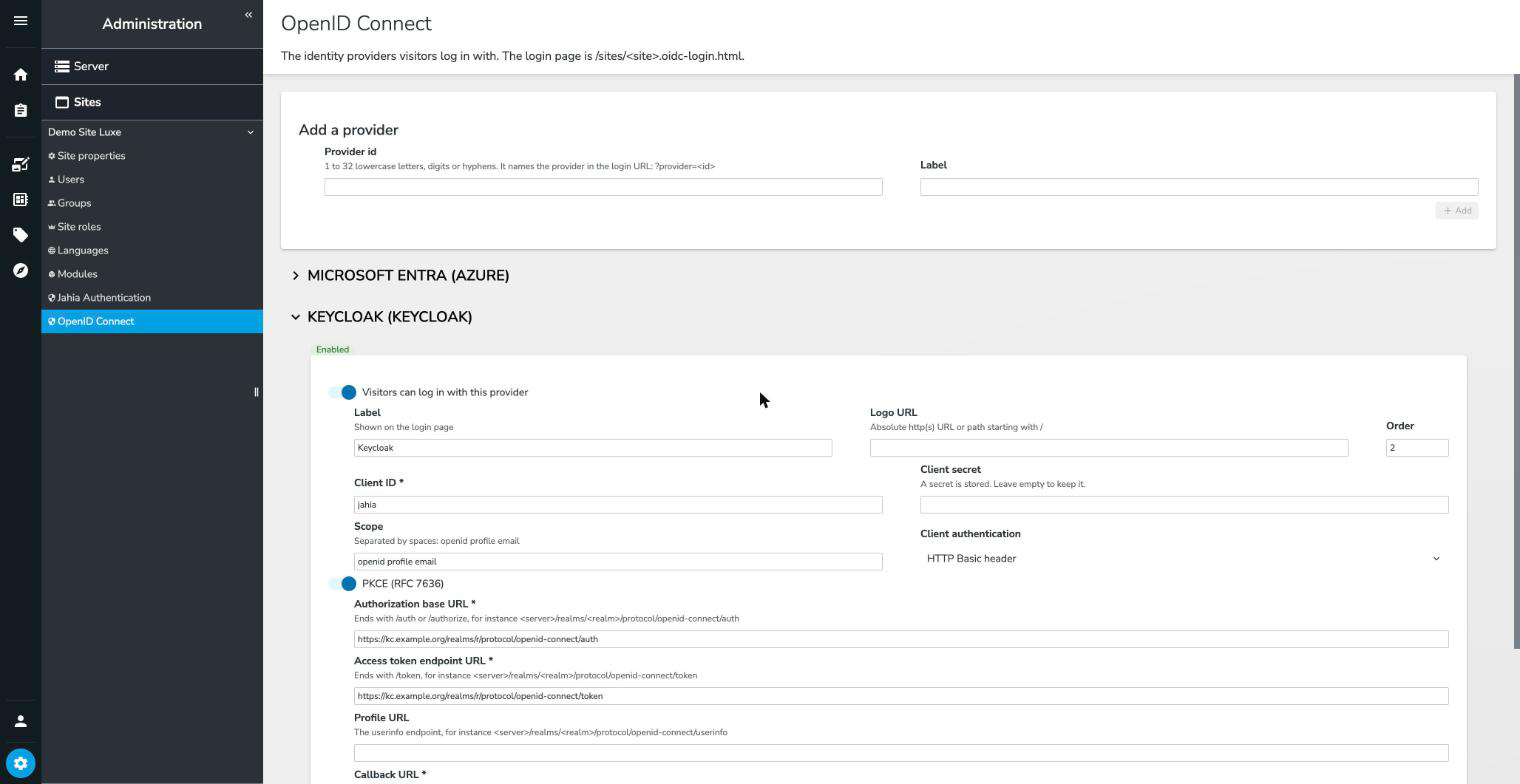
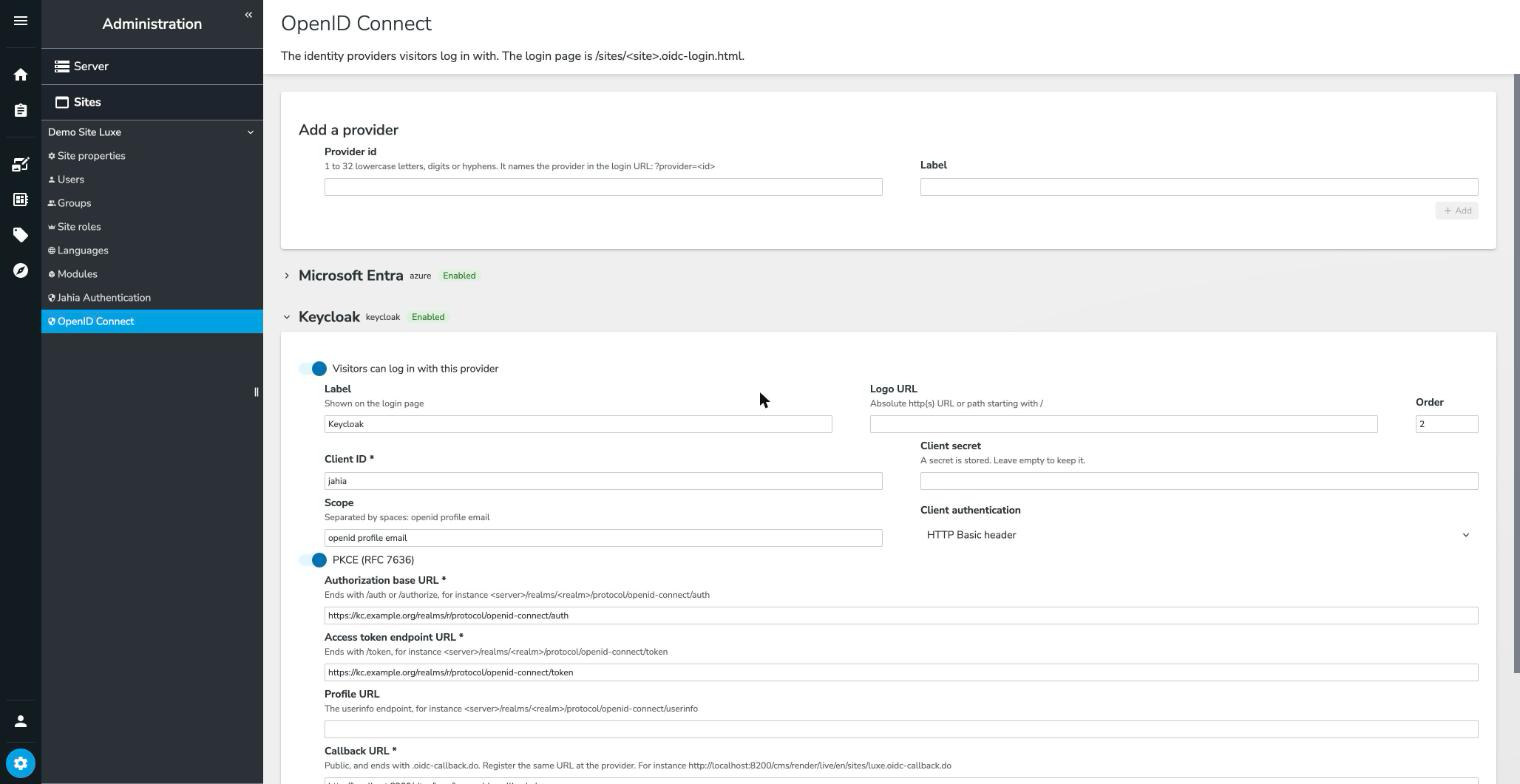
fix(admin): show the status of a provider next to its name
The Enabled chip sat inside the expanded content, above the switch that
says the same, so the status of a collapsed provider was hidden. Each
provider now has its own header, with its label, id and status, because
Moonstone's Collapsible takes a text label only. The settings stay
mounted while collapsed, so unsaved changes survive.

diff --git a/src/javascript/OidcProviders/OidcProvidersAdmin.jsx b/src/javascript/OidcProviders/OidcProvidersAdmin.jsx
@@ -2,7 +2,7 @@ import React, {useState} from 'react';
 import {useQuery} from '@apollo/client';
 import {useSelector} from 'react-redux';
 import {useTranslation} from 'react-i18next';
-import {Chip, Collapsible, Header, LayoutContent, Typography} from '@jahia/moonstone';
+import {ChevronDown, ChevronRight, Chip, Header, LayoutContent, Typography} from '@jahia/moonstone';
 import {GET_PROVIDERS} from './OidcProviders.gql';
 import {NewProviderForm} from './NewProviderForm';
 import {ProviderForm} from './ProviderForm';
@@ -34,23 +34,34 @@ export const OidcProvidersAdmin = () => {
                                      onCreated={onCreated}/>
                     {error && <Typography className={styles.error}>{error.message}</Typography>}
                     {data && providers.length === 0 && <Typography>{t('label.none')}</Typography>}
-                    {providers.map(provider => (
-                        <div key={provider.id} data-test="oidc-provider-card" data-provider={provider.id}>
-                            <Collapsible id={`oidc-provider-${provider.id}`}
-                                         label={`${provider.label} (${provider.id})`}
-                                         isExpanded={expandedId === provider.id}
-                                         onClick={() => setExpandedId(expandedId === provider.id ? null : provider.id)}
-                            >
-                                <Chip label={t(provider.enabled ? 'label.enabled' : 'label.disabled')}
-                                      color={provider.enabled ? 'success' : 'default'}/>
-                                <ProviderForm siteKey={siteKey}
-                                              language={language}
-                                              provider={provider}
-                                              onSaved={refetch}
-                                              onDeleted={onDeleted}/>
-                            </Collapsible>
-                        </div>
-                    ))}
+                    {providers.map(provider => {
+                        const isExpanded = expandedId === provider.id;
+                        return (
+                            <div key={provider.id} data-test="oidc-provider-card" data-provider={provider.id}>
+                                {/* Moonstone's Collapsible takes a text label only: the status needs its own header */}
+                                <button type="button"
+                                        className={styles.providerHeader}
+                                        aria-expanded={isExpanded}
+                                        aria-controls={`oidc-provider-${provider.id}`}
+                                        onClick={() => setExpandedId(isExpanded ? null : provider.id)}
+                                >
+                                    {isExpanded ? <ChevronDown/> : <ChevronRight/>}
+                                    <Typography variant="heading" weight="bold">{provider.label}</Typography>
+                                    <Typography variant="caption">{provider.id}</Typography>
+                                    <Chip label={t(provider.enabled ? 'label.enabled' : 'label.disabled')}
+                                          color={provider.enabled ? 'success' : 'default'}/>
+                                </button>
+                                {/* Kept mounted while collapsed, so that unsaved changes survive */}
+                                <div id={`oidc-provider-${provider.id}`} hidden={!isExpanded}>
+                                    <ProviderForm siteKey={siteKey}
+                                                  language={language}
+                                                  provider={provider}
+                                                  onSaved={refetch}
+                                                  onDeleted={onDeleted}/>
+                                </div>
+                            </div>
+                        );
+                    })}
                 </div>
             )}
         />

diff --git a/src/javascript/OidcProviders/OidcProviders.css b/src/javascript/OidcProviders/OidcProviders.css
@@ -46,3 +46,16 @@
     gap: var(--spacing-small, 8px);
     cursor: pointer;
 }
+
+.providerHeader {
+    display: flex;
+    align-items: center;
+    gap: var(--spacing-small, 8px);
+    width: 100%;
+    padding: var(--spacing-small, 8px) 0;
+    border: 0;
+    background: none;
+    color: inherit;
+    text-align: left;
+    cursor: pointer;
+}
